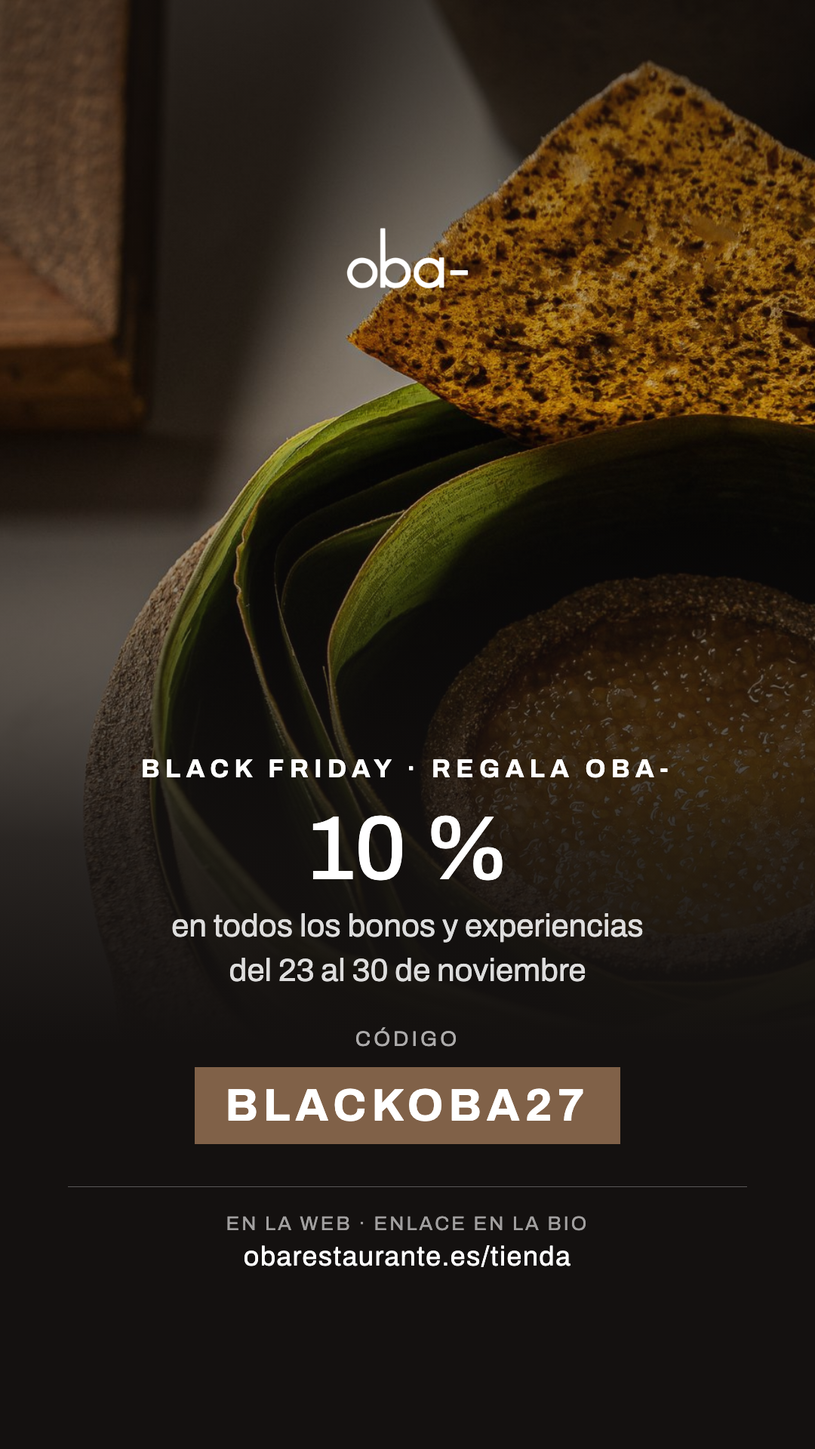
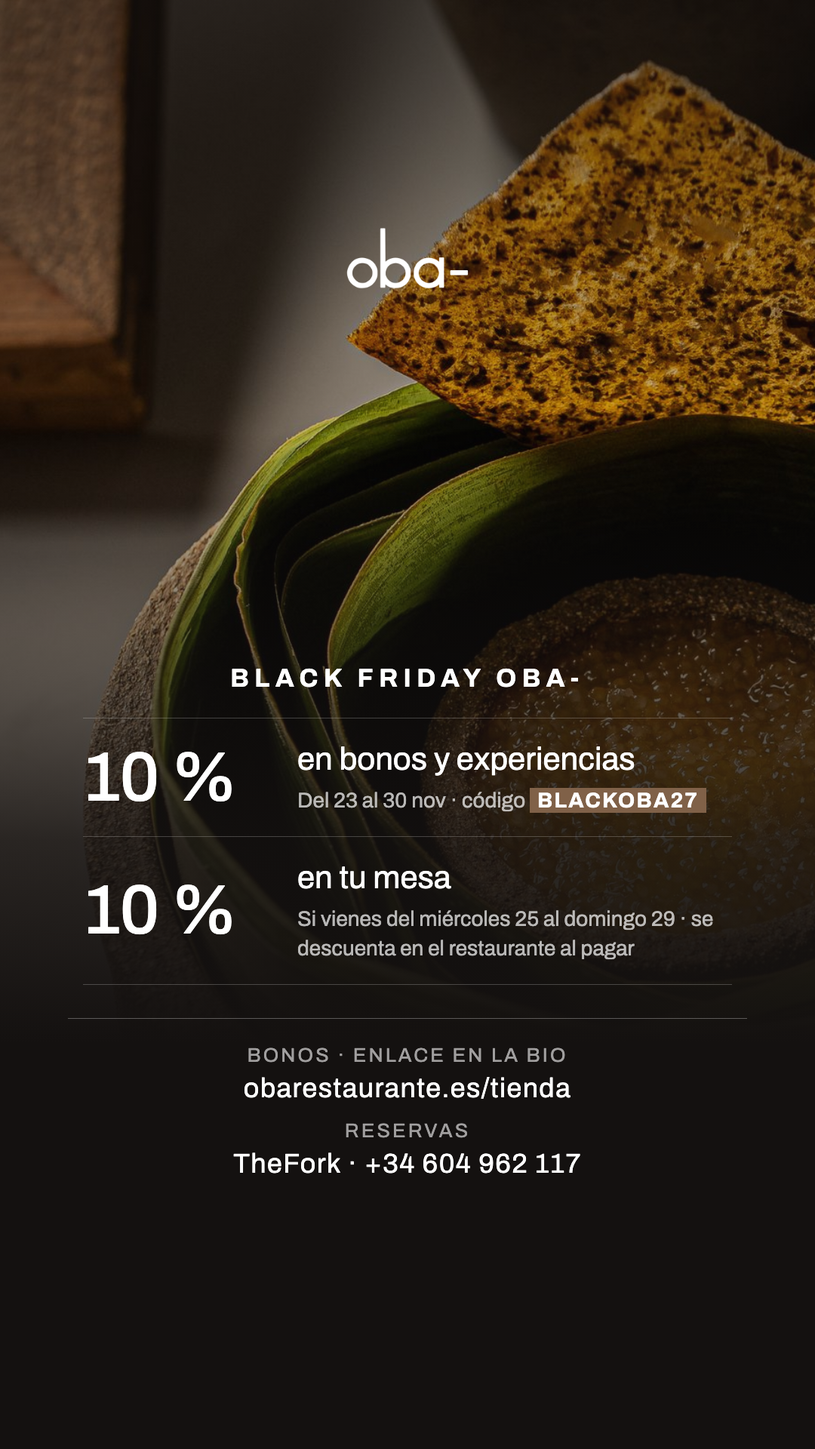
Black Friday: añade 10 % en mesa (25–29 nov, se descuenta al pagar)
- Franja de la tienda ES/EN (y estática): línea del 10 % en mesa con
  enlace a reservar; subida a Elementor (páginas 3034 y 3207).
- Stories rehechas con las dos ofertas (23, 25, 27 y 29) y actualizadas
  en Grupo Cañitas OS; las del 25 y 29 pasan a las 11:00.
- Newsletter OBA con sección «10 % en tu mesa» y asunto nuevo; reprogramada
  en Mailchimp para el lunes 23 a las 10:00.
- Plan de campaña actualizado.

diff --git a/newsletters/2026-11-23-black-friday.html b/newsletters/2026-11-23-black-friday.html
@@ -11,8 +11,8 @@
   fondo crema #fae1c0, texto #1a1a1a, botones #9d7759 rectos, Archivo.
 
   Mailchimp: Crear → Correo ordinario → "Usar HTML para programar el mío" → Pegar código.
-  Asunto:               Black Friday: 10 % para regalar oba-
-  Texto de vista previa: Del 23 al 30 de noviembre, 10 % en todos los bonos y experiencias con el código BLACKOBA27.
+  Asunto:               Black Friday en oba-: 10 % en bonos y en tu mesa
+  Texto de vista previa: 10 % en bonos y experiencias hasta el 30 de noviembre, y 10 % en tu mesa si vienes del 25 al 29.
   Audiencia: Grupo Cañitas → solo etiqueta OBA.
   Remitente: oba- restaurante · info@hotelcanitasmaite.com
 -->
@@ -38,7 +38,7 @@
 
 <!-- Preheader (oculto) -->
 <div style="display:none; max-height:0; overflow:hidden; mso-hide:all; font-size:1px; line-height:1px; color:#fae1c0;">
-  Del 23 al 30 de noviembre, 10 % en todos los bonos y experiencias con el código BLACKOBA27.&nbsp;&zwnj;&nbsp;&zwnj;&nbsp;&zwnj;&nbsp;&zwnj;&nbsp;&zwnj;&nbsp;&zwnj;&nbsp;&zwnj;&nbsp;&zwnj;
+  10 % en bonos y experiencias hasta el 30 de noviembre, y 10 % en tu mesa si vienes del 25 al 29.&nbsp;&zwnj;&nbsp;&zwnj;&nbsp;&zwnj;&nbsp;&zwnj;&nbsp;&zwnj;&nbsp;&zwnj;&nbsp;&zwnj;&nbsp;&zwnj;
 </div>
 
 <table role="presentation" width="100%" cellpadding="0" cellspacing="0" border="0" bgcolor="#fae1c0" style="background:#fae1c0;">
@@ -71,12 +71,12 @@
     <tr>
       <td class="pad" style="padding:32px 32px 0; font-family:'Archivo','Helvetica Neue',Arial,sans-serif; color:#1a1a1a;">
         <p style="margin:0 0 20px; font-size:15px; font-weight:700; letter-spacing:0.06em; text-transform:uppercase; color:#2a2a2a;">00 — Black Friday · 23 al 30 de noviembre</p>
-        <h1 class="h1" style="margin:0 0 20px; font-size:36px; line-height:42px; font-weight:500; color:#1a1a1a;">Este año, regala oba-.</h1>
+        <h1 class="h1" style="margin:0 0 20px; font-size:36px; line-height:42px; font-weight:500; color:#1a1a1a;">Black Friday: 10 % para regalar oba- y para venir.</h1>
         <p style="margin:0 0 16px; font-size:15px; line-height:25px; color:#1a1a1a;">
-          Durante esta semana tienes un <strong>10 % de descuento en todos nuestros bonos y experiencias</strong>: una cena en nuestra mesa o una escapada con noche en Cañitas Maite Gastronómico, lista para regalar estas Navidades.
+          Esta semana tienes dos descuentos del 10 %: en <strong>todos nuestros bonos y experiencias</strong>, para regalar estas Navidades, y en <strong>tu mesa</strong>, si vienes a comer o cenar entre el miércoles 25 y el domingo 29.
         </p>
         <p style="margin:0 0 28px; font-size:15px; line-height:25px; color:#1a1a1a;">
-          Hasta el <strong>lunes 30 de noviembre a las 23:59</strong>.
+          Bonos y experiencias: hasta el <strong>lunes 30 de noviembre a las 23:59</strong>, con este código.
         </p>
 
         <!-- Código -->
@@ -102,10 +102,44 @@
 
     <tr><td class="pad" style="padding:56px 32px 0;"><table role="presentation" width="100%" cellpadding="0" cellspacing="0" border="0"><tr><td style="border-top:1px solid rgba(26,26,26,0.15); font-size:0; line-height:0;">&nbsp;</td></tr></table></td></tr>
 
-    <!-- ============ 01 — QUÉ REGALAR ============ -->
+    <!-- ============ 01 — TU MESA ============ -->
     <tr>
       <td class="pad" style="padding:56px 32px 0; font-family:'Archivo','Helvetica Neue',Arial,sans-serif; color:#1a1a1a;">
-        <p style="margin:0 0 20px; font-size:15px; font-weight:700; letter-spacing:0.06em; text-transform:uppercase; color:#2a2a2a;">01 — Qué regalar</p>
+        <p style="margin:0 0 20px; font-size:15px; font-weight:700; letter-spacing:0.06em; text-transform:uppercase; color:#2a2a2a;">01 — 10 % en tu mesa · 25 al 29 de noviembre</p>
+        <p style="margin:0 0 16px; font-size:15px; line-height:25px; color:#1a1a1a;">
+          Si vienes a comer o cenar a oba- entre el <strong>miércoles 25 y el domingo 29 de noviembre</strong>, tienes un <strong>10 % de descuento en tu mesa</strong>.
+        </p>
+        <p style="margin:0 0 32px; font-size:15px; line-height:25px; color:#1a1a1a;">
+          No necesitas código: el descuento se aplica <strong>en el restaurante, al pagar</strong>. Solo es válido para visitas de esos días.
+        </p>
+      </td>
+    </tr>
+    <tr>
+      <td class="pad" style="padding:0 32px;">
+        <a href="https://www.thefork.es/restaurante/oba-r721580" target="_blank"><img src="https://obarestaurante.es/wp-content/uploads/oba-fondo-principal.jpg" width="536" alt="Sala del restaurante oba-" style="width:100%; max-width:536px; height:auto;"></a>
+      </td>
+    </tr>
+    <tr>
+      <td class="pad" style="padding:32px 32px 0; font-family:'Archivo','Helvetica Neue',Arial,sans-serif; color:#1a1a1a;">
+        <table role="presentation" cellpadding="0" cellspacing="0" border="0">
+          <tr>
+            <td bgcolor="#9d7759" style="background:#9d7759;">
+              <a href="https://www.thefork.es/restaurante/oba-r721580" target="_blank" style="display:inline-block; padding:17px 30px; font-family:'Archivo','Helvetica Neue',Arial,sans-serif; font-size:12px; font-weight:700; letter-spacing:0.15em; text-transform:uppercase; color:#ffffff; text-decoration:none;">Reservar mesa</a>
+            </td>
+          </tr>
+        </table>
+        <p style="margin:16px 0 0; font-size:13px; line-height:20px; color:#6a6a62;">
+          O llámanos al <a href="tel:+34604962117" style="color:#1a1a1a;">+34 604 962 117</a>
+        </p>
+      </td>
+    </tr>
+
+    <tr><td class="pad" style="padding:56px 32px 0;"><table role="presentation" width="100%" cellpadding="0" cellspacing="0" border="0"><tr><td style="border-top:1px solid rgba(26,26,26,0.15); font-size:0; line-height:0;">&nbsp;</td></tr></table></td></tr>
+
+    <!-- ============ 02 — QUÉ REGALAR ============ -->
+    <tr>
+      <td class="pad" style="padding:56px 32px 0; font-family:'Archivo','Helvetica Neue',Arial,sans-serif; color:#1a1a1a;">
+        <p style="margin:0 0 20px; font-size:15px; font-weight:700; letter-spacing:0.06em; text-transform:uppercase; color:#2a2a2a;">02 — Qué regalar</p>
         <p style="margin:0 0 32px; font-size:15px; line-height:25px; color:#1a1a1a;">
           Bonos digitales que llegan al instante por email y son válidos durante 6 meses. Precios por persona, ya con el 10 % aplicado.
         </p>
@@ -155,10 +189,10 @@
 
     <tr><td class="pad" style="padding:56px 32px 0;"><table role="presentation" width="100%" cellpadding="0" cellspacing="0" border="0"><tr><td style="border-top:1px solid rgba(26,26,26,0.15); font-size:0; line-height:0;">&nbsp;</td></tr></table></td></tr>
 
-    <!-- ============ 02 — CÓMO FUNCIONA ============ -->
+    <!-- ============ 03 — CÓMO FUNCIONA (BONOS) ============ -->
     <tr>
       <td class="pad" style="padding:56px 32px 0; font-family:'Archivo','Helvetica Neue',Arial,sans-serif; color:#1a1a1a;">
-        <p style="margin:0 0 24px; font-size:15px; font-weight:700; letter-spacing:0.06em; text-transform:uppercase; color:#2a2a2a;">02 — Cómo funciona</p>
+        <p style="margin:0 0 24px; font-size:15px; font-weight:700; letter-spacing:0.06em; text-transform:uppercase; color:#2a2a2a;">03 — Cómo funcionan los bonos</p>
         <table role="presentation" width="100%" cellpadding="0" cellspacing="0" border="0">
           <tr><td style="padding:14px 0; border-top:1px solid rgba(26,26,26,0.15); border-bottom:1px solid rgba(26,26,26,0.15); font-size:15px; line-height:22px;"><strong style="color:#9d7759;">01</strong> &nbsp; Elige el bono en <a href="https://obarestaurante.es/tienda" target="_blank" style="color:#1a1a1a;">obarestaurante.es/tienda</a></td></tr>
           <tr><td style="padding:14px 0; border-bottom:1px solid rgba(26,26,26,0.15); font-size:15px; line-height:22px;"><strong style="color:#9d7759;">02</strong> &nbsp; Al pagar, el 10 % ya aparece aplicado</td></tr>

diff --git a/elementor-html-blocks/pagina-tienda.html b/elementor-html-blocks/pagina-tienda.html
@@ -909,6 +909,8 @@ html, body { margin: 0 !important; padding: 0 !important; background: #fae1c0 !i
   user-select: all;
 }
 .oba-bf-note { flex-basis: 100%; font-size: 12px; color: rgba(255,255,255,0.6); letter-spacing: 0.04em; }
+.oba-bf-mesa { flex-basis: 100%; margin-top: 6px; padding-top: 12px; border-top: 1px solid rgba(255,255,255,0.18); color: rgba(255,255,255,0.85); }
+.oba-bf-mesa a { font-weight: 700; letter-spacing: 0.1em; color: #fff !important; text-decoration: underline !important; text-underline-offset: 3px; margin-left: 6px; white-space: nowrap; }
 @media (max-width: 600px) { .oba-bf { font-size: 13px; padding: 14px 16px; margin-bottom: 32px; } }
 </style>
 
@@ -950,6 +952,7 @@ html, body { margin: 0 !important; padding: 0 !important; background: #fae1c0 !i
       <span class="oba-bf-text" data-i18n="bf_text">10 % en todos los bonos y experiencias con el código</span>
       <span class="oba-bf-code">BLACKOBA27</span>
       <span class="oba-bf-note" data-i18n="bf_note">Del 23 al 30 de noviembre · Se aplica solo al finalizar la compra</span>
+      <span class="oba-bf-mesa"><span data-i18n="bf_mesa">Y si vienes a comer o cenar del miércoles 25 al domingo 29, 10 % en tu mesa: se descuenta en el restaurante al pagar.</span><a href="https://www.thefork.es/restaurante/oba-r721580" target="_blank" rel="noopener" data-i18n="bf_reservar">RESERVAR MESA</a></span>
     </div>
     <p class="oba-detail-kicker" data-i18n="kicker_tienda">00 — TIENDA ONLINE</p>
     <h1 data-i18n="h1_tienda">Regala Oba-</h1>
@@ -1045,7 +1048,9 @@ window.OBA_TRANSLATIONS = window.OBA_TRANSLATIONS || {
     tienda_subtotal: "Subtotal",
     tienda_checkout: "FINALIZAR COMPRA",
     bf_text: "10 % en todos los bonos y experiencias con el código",
-    bf_note: "Del 23 al 30 de noviembre · Se aplica solo al finalizar la compra"
+    bf_note: "Del 23 al 30 de noviembre · Se aplica solo al finalizar la compra",
+    bf_mesa: "Y si vienes a comer o cenar del miércoles 25 al domingo 29, 10 % en tu mesa: se descuenta en el restaurante al pagar.",
+    bf_reservar: "RESERVAR MESA"
   },
   en: {
     menu_reserva: "BOOK", menu_contacto: "CONTACT", menu_tienda: "SHOP",
@@ -1066,7 +1071,9 @@ window.OBA_TRANSLATIONS = window.OBA_TRANSLATIONS || {
     tienda_subtotal: "Subtotal",
     tienda_checkout: "CHECKOUT",
     bf_text: "10% off all vouchers and experiences with code",
-    bf_note: "23–30 November · Applied automatically at checkout"
+    bf_note: "23–30 November · Applied automatically at checkout",
+    bf_mesa: "Dining with us Wednesday 25 to Sunday 29? 10% off your table, deducted at the restaurant when you pay.",
+    bf_reservar: "BOOK A TABLE"
   }
 };
 

diff --git a/elementor-html-blocks/en/pagina-tienda.html b/elementor-html-blocks/en/pagina-tienda.html
@@ -892,6 +892,8 @@ html, body { margin: 0 !important; padding: 0 !important; background: #fae1c0 !i
   user-select: all;
 }
 .oba-bf-note { flex-basis: 100%; font-size: 12px; color: rgba(255,255,255,0.6); letter-spacing: 0.04em; }
+.oba-bf-mesa { flex-basis: 100%; margin-top: 6px; padding-top: 12px; border-top: 1px solid rgba(255,255,255,0.18); color: rgba(255,255,255,0.85); }
+.oba-bf-mesa a { font-weight: 700; letter-spacing: 0.1em; color: #fff !important; text-decoration: underline !important; text-underline-offset: 3px; margin-left: 6px; white-space: nowrap; }
 @media (max-width: 600px) { .oba-bf { font-size: 13px; padding: 14px 16px; margin-bottom: 32px; } }
 </style>
 
@@ -933,6 +935,7 @@ html, body { margin: 0 !important; padding: 0 !important; background: #fae1c0 !i
       <span class="oba-bf-text" data-i18n="bf_text">10% off all vouchers and experiences with code</span>
       <span class="oba-bf-code">BLACKOBA27</span>
       <span class="oba-bf-note" data-i18n="bf_note">23–30 November · Applied automatically at checkout</span>
+      <span class="oba-bf-mesa"><span data-i18n="bf_mesa">Dining with us Wednesday 25 to Sunday 29? 10% off your table, deducted at the restaurant when you pay.</span><a href="https://www.thefork.es/restaurante/oba-r721580" target="_blank" rel="noopener" data-i18n="bf_reservar">BOOK A TABLE</a></span>
     </div>
     <p class="oba-detail-kicker" data-i18n="kicker_tienda">00 — ONLINE SHOP</p>
     <h1 data-i18n="h1_tienda">Gift Oba-</h1>
@@ -1028,7 +1031,9 @@ window.OBA_TRANSLATIONS = window.OBA_TRANSLATIONS || {
     tienda_subtotal: "Subtotal",
     tienda_checkout: "FINALIZAR COMPRA",
     bf_text: "10 % en todos los bonos y experiencias con el código",
-    bf_note: "Del 23 al 30 de noviembre · Se aplica solo al finalizar la compra"
+    bf_note: "Del 23 al 30 de noviembre · Se aplica solo al finalizar la compra",
+    bf_mesa: "Y si vienes a comer o cenar del miércoles 25 al domingo 29, 10 % en tu mesa: se descuenta en el restaurante al pagar.",
+    bf_reservar: "RESERVAR MESA"
   },
   en: {
     menu_reserva: "BOOK", menu_contacto: "CONTACT", menu_tienda: "SHOP",
@@ -1049,7 +1054,9 @@ window.OBA_TRANSLATIONS = window.OBA_TRANSLATIONS || {
     tienda_subtotal: "Subtotal",
     tienda_checkout: "CHECKOUT",
     bf_text: "10% off all vouchers and experiences with code",
-    bf_note: "23–30 November · Applied automatically at checkout"
+    bf_note: "23–30 November · Applied automatically at checkout",
+    bf_mesa: "Dining with us Wednesday 25 to Sunday 29? 10% off your table, deducted at the restaurant when you pay.",
+    bf_reservar: "BOOK A TABLE"
   }
 };
 

diff --git a/detail.js b/detail.js
@@ -24,6 +24,8 @@ window.OBA_TRANSLATIONS = window.OBA_TRANSLATIONS || {
     tienda_checkout: "FINALIZAR COMPRA",
     bf_text: "10 % en todos los bonos y experiencias con el código",
     bf_note: "Del 23 al 30 de noviembre · Se aplica solo al finalizar la compra",
+    bf_mesa: "Y si vienes a comer o cenar del miércoles 25 al domingo 29, 10 % en tu mesa: se descuenta en el restaurante al pagar.",
+    bf_reservar: "RESERVAR MESA",
     h2_maridajes: "MARIDAJES",
     maridaje_1_titulo: "NATURA",
     maridaje_1_sub: "(MARIDAJE NO/LO)",
@@ -269,6 +271,8 @@ window.OBA_TRANSLATIONS = window.OBA_TRANSLATIONS || {
     tienda_checkout: "CHECKOUT",
     bf_text: "10% off all vouchers and experiences with code",
     bf_note: "23–30 November · Applied automatically at checkout",
+    bf_mesa: "Dining with us Wednesday 25 to Sunday 29? 10% off your table, deducted at the restaurant when you pay.",
+    bf_reservar: "BOOK A TABLE",
     h2_maridajes: "PAIRINGS",
     maridaje_1_titulo: "NATURA",
     maridaje_1_sub: "(NO/LOW ALCOHOL PAIRING)",

diff --git a/tienda.html b/tienda.html
@@ -91,6 +91,7 @@
       <span class="oba-bf-text" data-i18n="bf_text">10 % en todos los bonos y experiencias con el código</span>
       <span class="oba-bf-code">BLACKOBA27</span>
       <span class="oba-bf-note" data-i18n="bf_note">Del 23 al 30 de noviembre · Se aplica solo al finalizar la compra</span>
+      <span class="oba-bf-mesa"><span data-i18n="bf_mesa">Y si vienes a comer o cenar del miércoles 25 al domingo 29, 10 % en tu mesa: se descuenta en el restaurante al pagar.</span><a href="https://www.thefork.es/restaurante/oba-r721580" target="_blank" rel="noopener" data-i18n="bf_reservar">RESERVAR MESA</a></span>
     </div>
     <p class="oba-detail-kicker" data-i18n="kicker_tienda">00 — TIENDA ONLINE</p>
     <h1 data-i18n="h1_tienda">Regala Oba-</h1>

diff --git a/tienda.css b/tienda.css
@@ -371,4 +371,6 @@ html { scroll-behavior: smooth; }
   user-select: all;
 }
 .oba-bf-note { flex-basis: 100%; font-size: 12px; color: rgba(255,255,255,0.6); letter-spacing: 0.04em; }
+.oba-bf-mesa { flex-basis: 100%; margin-top: 6px; padding-top: 12px; border-top: 1px solid rgba(255,255,255,0.18); color: rgba(255,255,255,0.85); }
+.oba-bf-mesa a { font-weight: 700; letter-spacing: 0.1em; color: #fff !important; text-decoration: underline !important; text-underline-offset: 3px; margin-left: 6px; white-space: nowrap; }
 @media (max-width: 600px) { .oba-bf { font-size: 13px; padding: 14px 16px; margin-bottom: 32px; } }

diff --git a/campanas/black-friday-2026-stories/build.py b/campanas/black-friday-2026-stories/build.py
@@ -1,5 +1,6 @@
 #!/usr/bin/env python3
 """Stories de Black Friday 2026 (1080x1920), una cada dos días: 23, 25, 27 y 29 nov.
+Dos ofertas: 10 % en bonos (23–30, BLACKOBA27) y 10 % en mesa (25–29, en el restaurante).
 
     python3 campanas/black-friday-2026-stories/build.py
 
@@ -20,6 +21,7 @@ IMG = {
     "078": ROOT / "imagenes/oba-078.jpg",
     "galeria": ROOT / "imagenes/oba-galeria-restaurante.jpg",
     "cm": ROOT / "oba-film/public/img/shop-cuaderno-medio.jpg",
+    "sala": ROOT / "imagenes/oba-fondo-principal.jpg",
 }
 LOGO = (ROOT / "imagenes/oba-logo.png").as_uri()  # versión clara, para fondo oscuro
 
@@ -46,6 +48,13 @@ body { font-family: 'Archivo', 'Helvetica Neue', Arial, sans-serif; color: #fff;
 .row:last-child { border-bottom: 1px solid rgba(255,255,255,0.2); }
 .row s { font-size: 30px; color: rgba(255,255,255,0.5); margin-right: 18px; }
 .row b { font-weight: 500; }
+.offers { text-align: left; margin: 0 auto; max-width: 860px; }
+.offer { display: flex; gap: 34px; align-items: center; padding: 28px 0; border-top: 1px solid rgba(255,255,255,0.22); }
+.offer:last-child { border-bottom: 1px solid rgba(255,255,255,0.22); }
+.offer .pct { font-size: 92px; font-weight: 500; letter-spacing: -0.02em; min-width: 250px; }
+.offer .t { font-size: 42px; line-height: 1.25; }
+.offer .t > span { display: block; font-size: 28px; line-height: 1.4; color: rgba(255,255,255,0.7); margin-top: 8px; }
+.ci { font-weight: 700; letter-spacing: 0.08em; color: #fff; background: #806148; padding: 1px 10px; }
 """
 
 def bg(key, pos="center", top=0.55, mid=0.2):
@@ -59,48 +68,52 @@ def logo(top=250, w=190):
 CODE = """<p class="label">CÓDIGO</p><span class="code">BLACKOBA27</span>"""
 URL = """<p class="url"><span>EN LA WEB · ENLACE EN LA BIO</span>obarestaurante.es/tienda</p>"""
 
+FOOT = """<p class="url"><span>BONOS · ENLACE EN LA BIO</span>obarestaurante.es/tienda</p>
+<p class="url" style="border:0;padding-top:22px"><span>RESERVAS</span>TheFork · +34 604 962 117</p>"""
+
+def offers(bonos_sub, mesa_sub):
+    return f"""<div class="offers">
+  <div class="offer"><span class="pct">10 %</span><span class="t">en bonos y experiencias<span>{bonos_sub}</span></span></div>
+  <div class="offer"><span class="pct">10 %</span><span class="t">en tu mesa<span>{mesa_sub}</span></span></div>
+</div>"""
+
 S = {
-    # Lunes 23 · lanzamiento
+    # Lunes 23 · lanzamiento: las dos ofertas
     "1-lun23-black-friday": bg("144", "28% center") + logo() + f"""
-<div class="content" style="top:1000px">
-  <p class="kicker">BLACK FRIDAY · REGALA OBA-</p>
-  <p class="title" style="margin-top:26px">10 %</p>
-  <p class="sub" style="margin-top:10px">en todos los bonos y experiencias<br>del 23 al 30 de noviembre</p>
-  <div style="margin-top:46px">{CODE}</div>
-  <div style="margin-top:56px">{URL}</div>
+<div class="content" style="top:880px">
+  <p class="kicker" style="margin-bottom:34px">BLACK FRIDAY OBA-</p>
+  {offers("Del 23 al 30 nov · código <b class='ci'>BLACKOBA27</b>",
+          "Si vienes del miércoles 25 al domingo 29 · se descuenta en el restaurante al pagar")}
+  <div style="margin-top:44px">{FOOT}</div>
 </div>""",
 
-    # Miércoles 25 · qué regalar, con precios
-    "2-mie25-precios": bg("cm", "center 40%", 0.6, 0.15) + logo() + f"""
-<div class="content" style="top:930px">
-  <p class="kicker" style="margin-bottom:38px">REGALA OBA- CON UN 10 %</p>
-  <div class="prices">
-    <div class="row"><span>Cuaderno Medio</span><span><s>155 €</s><b>139,50 €</b></span></div>
-    <div class="row"><span>Cuaderno Dos</span><span><s>195 €</s><b>175,50 €</b></span></div>
-    <div class="row"><span>Cena + hotel</span><span><s>335 €</s><b>301,50 €</b></span></div>
-  </div>
-  <p class="sub" style="font-size:30px;margin-top:20px;color:rgba(255,255,255,0.6)">Precio por persona · con el código BLACKOBA27</p>
-  <div style="margin-top:50px">{URL}</div>
+    # Miércoles 25 · empieza el 10 % en mesa
+    "2-mie25-tu-mesa": bg("sala", "center", 0.6, 0.4) + logo() + f"""
+<div class="content" style="top:1010px">
+  <p class="kicker">BLACK FRIDAY OBA-</p>
+  <p class="title" style="margin-top:24px;font-size:104px">Desde hoy,<br>10 % en tu mesa.</p>
+  <p class="sub" style="margin-top:26px">Ven a comer o cenar hasta el domingo 29.<br>El descuento se aplica en el restaurante al pagar.</p>
+  <p class="url" style="margin-top:50px"><span>RESERVAS</span>TheFork · +34 604 962 117</p>
 </div>""",
 
     # Viernes 27 · Black Friday
     "3-vie27-hoy-es-el-dia": bg("galeria", "60% center") + logo() + f"""
-<div class="content" style="top:960px">
+<div class="content" style="top:860px">
   <p class="kicker">BLACK FRIDAY</p>
-  <p class="title" style="margin-top:24px">Hoy es el día.</p>
-  <p class="sub" style="margin-top:22px">10 % en bonos y experiencias.<br>Te llegan al momento por email.</p>
-  <div style="margin-top:44px">{CODE}</div>
-  <div style="margin-top:54px">{URL}</div>
+  <p class="title" style="margin-top:20px;margin-bottom:34px">Hoy es el día.</p>
+  {offers("Hasta el lunes 30 · código <b class='ci'>BLACKOBA27</b>",
+          "Hasta el domingo 29 · en el restaurante al pagar")}
+  <div style="margin-top:40px">{FOOT}</div>
 </div>""",
 
-    # Domingo 29 · últimos días
-    "4-dom29-ultimos-dias": bg("078", "center") + logo() + f"""
-<div class="content" style="top:960px">
+    # Domingo 29 · último día en mesa, bonos hasta mañana
+    "4-dom29-ultimo-dia-mesa": bg("078", "center") + logo() + f"""
+<div class="content" style="top:860px">
   <p class="kicker">BLACK FRIDAY OBA-</p>
-  <p class="title" style="margin-top:24px">Últimos días.</p>
-  <p class="sub" style="margin-top:22px">10 % hasta el lunes 30<br>a las 23:59.</p>
-  <div style="margin-top:44px">{CODE}</div>
-  <div style="margin-top:54px">{URL}</div>
+  <p class="title" style="margin-top:20px;margin-bottom:34px">Último día.</p>
+  {offers("Hasta mañana, 23:59 · <b class='ci'>BLACKOBA27</b>",
+          "Solo hoy domingo · en el restaurante al pagar")}
+  <div style="margin-top:40px">{FOOT}</div>
 </div>""",
 }
 

diff --git a/campanas/2026-black-friday.md b/campanas/2026-black-friday.md
@@ -1,9 +1,10 @@
 # Black Friday 2026 · Regala oba-
 
-- **Fechas:** del lunes 23 al lunes 30 de noviembre (hasta las 23:59)
-- **Oferta:** 10 % en todos los bonos y experiencias de Regala oba-
-- **Código:** `BLACKOBA27`
-- **Dónde:** obarestaurante.es/tienda (checkout en regalaoba.myshopify.com)
+Dos ofertas (añadida la de mesa el 22/11):
+
+1. **Bonos (Regala oba-):** 10 % en todos los bonos y experiencias, del lunes 23 al lunes 30 de noviembre (hasta las 23:59), con el código `BLACKOBA27` en obarestaurante.es/tienda (checkout en regalaoba.myshopify.com).
+2. **Mesa:** 10 % en la cuenta para quien venga a comer o cenar del **miércoles 25 al domingo 29 de noviembre**. Sin código: se descuenta **en el restaurante, al pagar**. Solo vale para visitas de esos días. Reservas por TheFork o al +34 604 962 117. **Avisar a sala** para que lo apliquen.
+
 - **Canal:** solo stories de Instagram, sin post en el feed
 
 ## Antes de empezar (checklist)
@@ -14,7 +15,10 @@
   - Sin límite de usos ni mínimo de compra; no se combina con otros descuentos
 - [x] (17/11) Subir a Elementor la página Tienda actualizada (ES y EN). La franja Black Friday aparece y desaparece sola según la fecha, y el botón «Finalizar compra» lleva el código ya puesto.
 - [ ] Comprobar el 23 por la mañana: añadir un bono a la cesta → finalizar compra → que Shopify muestre el 10 % aplicado (y no pagar).
-- [x] (17/11) Programar las 4 stories en Grupo Cañitas OS (OBA-, autopublicación en @oba.res).
+- [x] (17/11) Programar las 4 stories en Grupo Cañitas OS (OBA-, autopublicación en @oba.res). Rehechas el 22/11 con la oferta de mesa.
+- [x] (22/11) Franja de la tienda (ES/EN) con la línea del 10 % en mesa y enlace a reservar; subida a Elementor. Vista previa: `obarestaurante.es/tienda?bf=1`.
+- [x] (22/11) Newsletter OBA con sección «10 % en tu mesa», reprogramada en Mailchimp para el lunes 23 a las 10:00.
+- [ ] Informar a sala/caja del 10 % en mesa del 25 al 29 (al pagar).
 
 ## Precios de referencia con el 10 %
 
@@ -37,10 +41,10 @@ Imágenes (1080×1920): `campanas/black-friday-2026-stories/png/`. Para regenera
 
 | Día | Hora | Archivo | Mensaje |
 |---|---|---|---|
-| Lunes 23 | 10:00 | `1-lun23-black-friday.png` | Lanzamiento: 10 % en bonos y experiencias, del 23 al 30, código BLACKOBA27 |
-| Miércoles 25 | 13:00 | `2-mie25-precios.png` | Precios con el 10 %: Cuaderno Medio 139,50 €, Cuaderno Dos 175,50 €, Cena + hotel 301,50 € |
-| Viernes 27 | 10:00 | `3-vie27-hoy-es-el-dia.png` | Black Friday: «Hoy es el día» |
-| Domingo 29 | 19:00 | `4-dom29-ultimos-dias.png` | «Últimos días»: hasta el lunes 30 a las 23:59 |
+| Lunes 23 | 10:00 | `1-lun23-black-friday.png` | Lanzamiento de las dos ofertas: bonos (23–30, BLACKOBA27) y mesa (25–29, al pagar) |
+| Miércoles 25 | 11:00 | `2-mie25-tu-mesa.png` | «Desde hoy, 10 % en tu mesa» hasta el domingo 29 |
+| Viernes 27 | 10:00 | `3-vie27-hoy-es-el-dia.png` | Black Friday: «Hoy es el día», las dos ofertas |
+| Domingo 29 | 11:00 | `4-dom29-ultimo-dia-mesa.png` | «Último día» de la mesa; bonos hasta mañana lunes 23:59 |
 
 El 1 de diciembre, quitar el enlace de la bio si se cambió solo para la campaña.
 
@@ -48,9 +52,13 @@ El 1 de diciembre, quitar el enlace de la bio si se cambió solo para la campañ
 
 **Respuesta para mensajes directos:**
 > ¡Hola! Del 23 al 30 de noviembre tienes un 10 % en todos los bonos y experiencias de oba- con el código BLACKOBA27. Se aplica solo al finalizar la compra desde obarestaurante.es/tienda, y el bono te llega al momento por email.
+>
+> Y si vienes a comer o cenar del miércoles 25 al domingo 29, tienes un 10 % en tu mesa: no hace falta código, te lo descontamos en el restaurante al pagar. Reserva en TheFork o al +34 604 962 117.
 
 **EN (por si hace falta):**
 > BLACK FRIDAY at oba- · 10% off all gift vouchers and experiences with code BLACKOBA27 · Until 30 November · obarestaurante.es/en/gift-vouchers
+>
+> Dining with us Wednesday 25 to Sunday 29? 10% off your table, deducted at the restaurant when you pay.
 
 ## Destacada
 
